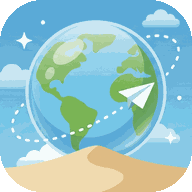
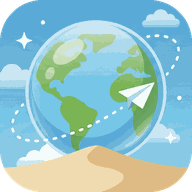
Add files via upload

diff --git a/trove/sw.js b/trove/sw.js
@@ -1,5 +1,5 @@
 /* Trove service worker — offline shell cache */
-const CACHE = 'trove-v2';
+const CACHE = 'trove-v3';
 const ASSETS = [
   './',
   './index.html',